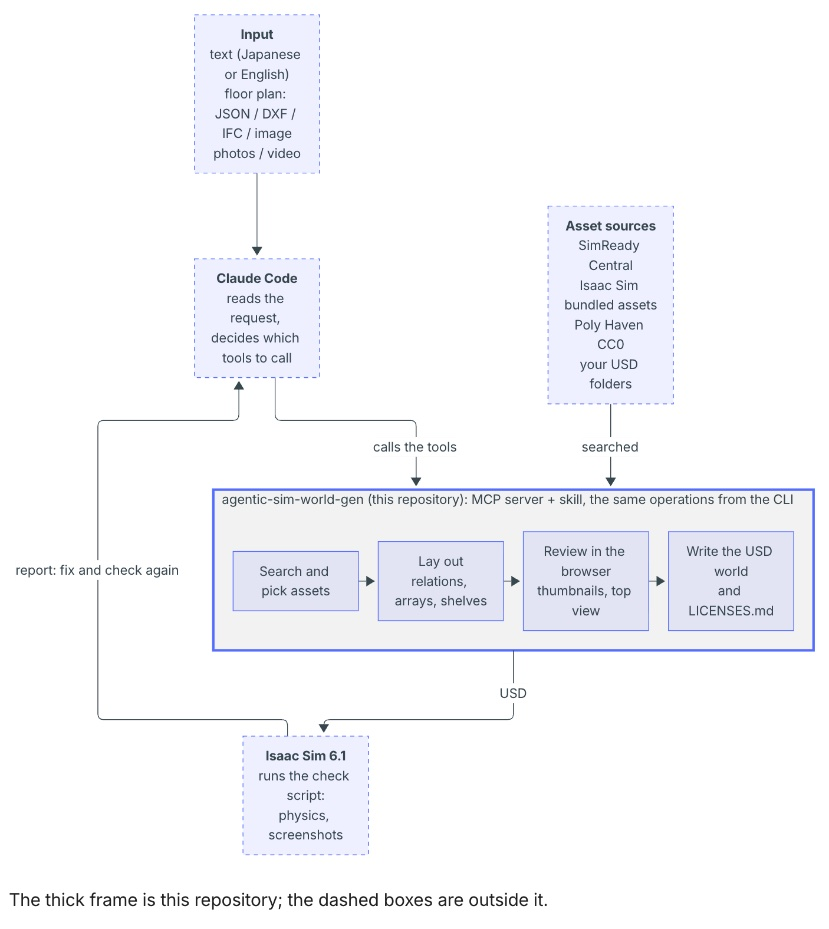
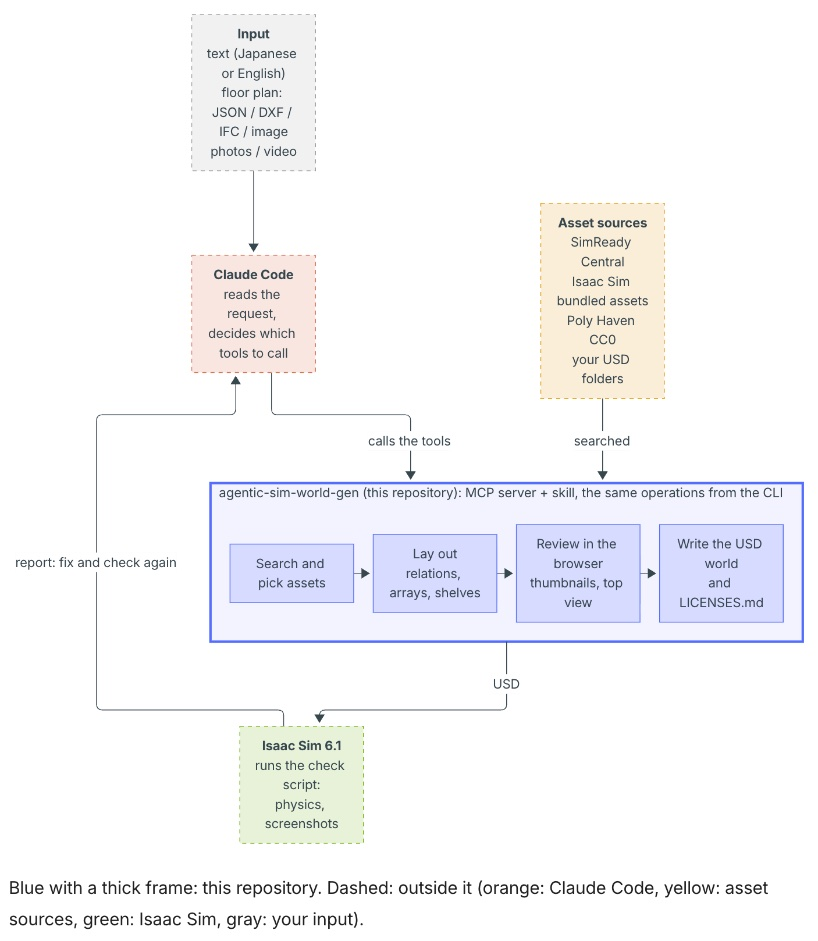
README diagram: color the parts (#23)
Blue for this repository; orange for Claude Code, yellow for the asset sources, green for Isaac Sim and gray
for the input. The fills are translucent so they read in light and dark mode.

diff --git a/README.ja.md b/README.ja.md
@@ -20,12 +20,20 @@ flowchart TB
   SRC -- "検索" --> WG
   WG -- "USD" --> ISAAC
   ISAAC -- "結果：手直しして再検証" --> CC
-  style WG stroke:#536dfe,stroke-width:3px
-  classDef outside stroke-dasharray:5 5
-  class IN,CC,SRC,ISAAC outside
+  style WG fill:#536dfe14,stroke:#536dfe,stroke-width:3px
+  classDef repo fill:#536dfe2e,stroke:#536dfe
+  classDef input fill:#9e9e9e26,stroke:#9e9e9e,stroke-dasharray:5 5
+  classDef claude fill:#d977572e,stroke:#d97757,stroke-dasharray:5 5
+  classDef assets fill:#e3a0082e,stroke:#e3a008,stroke-dasharray:5 5
+  classDef isaac fill:#76b9002e,stroke:#76b900,stroke-dasharray:5 5
+  class S,L,V,U repo
+  class IN input
+  class CC claude
+  class SRC assets
+  class ISAAC isaac
 ```
 
-太い枠がこのリポジトリ、点線の箱はその外のもの。
+青の太い枠がこのリポジトリ。点線はその外のもの（橙：Claude Code、黄：アセットの出どころ、緑：Isaac Sim、灰：入力）。
 
 > [!IMPORTANT]
 > NVIDIA の公式の製品ではなく、NVIDIA の後援・承認も受けていない個人のプロジェクトです。Isaac Sim・Omniverse・SimReady・Replicator は NVIDIA Corporation の商標です。

diff --git a/README.md b/README.md
@@ -22,12 +22,20 @@ flowchart TB
   SRC -- "searched" --> WG
   WG -- "USD" --> ISAAC
   ISAAC -- "report: fix and check again" --> CC
-  style WG stroke:#536dfe,stroke-width:3px
-  classDef outside stroke-dasharray:5 5
-  class IN,CC,SRC,ISAAC outside
+  style WG fill:#536dfe14,stroke:#536dfe,stroke-width:3px
+  classDef repo fill:#536dfe2e,stroke:#536dfe
+  classDef input fill:#9e9e9e26,stroke:#9e9e9e,stroke-dasharray:5 5
+  classDef claude fill:#d977572e,stroke:#d97757,stroke-dasharray:5 5
+  classDef assets fill:#e3a0082e,stroke:#e3a008,stroke-dasharray:5 5
+  classDef isaac fill:#76b9002e,stroke:#76b900,stroke-dasharray:5 5
+  class S,L,V,U repo
+  class IN input
+  class CC claude
+  class SRC assets
+  class ISAAC isaac
 ```
 
-The thick frame is this repository; the dashed boxes are outside it.
+Blue with a thick frame: this repository. Dashed: outside it (orange: Claude Code, yellow: asset sources, green: Isaac Sim, gray: your input).
 
 > [!IMPORTANT]
 > This is a personal project. It is not an official NVIDIA product and is not sponsored or endorsed by NVIDIA.
